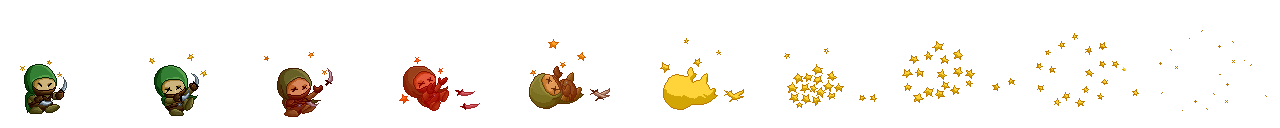
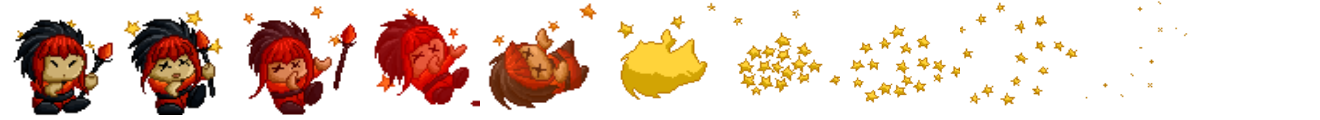
se hace re build de char, mob, y coin. Se eliminan espacios vacios de los spritesheets

diff --git a/TP4/entregafinal/pages/play_game2.js b/TP4/entregafinal/pages/play_game2.js
@@ -2,46 +2,11 @@ import { Navbar_inGame } from "../components/NavBar_inGame";
 import Footer from "../components/Footer";
 import React, { useState, useEffect } from 'react';
 import Background from "../components/ForestRunner/Background";
-import { Player } from "../components/ForestRunner/player";
 
 export default function Play_Game2(){
 
     const [gameOver, setGameOver] = useState(false); 
-    
-    /* const InputListener = ()=>{        
-        useEffect(() => {
-            window.addEventListener("keydown", e => {     
-                if (e.key === " ")  
-                    return () => {
-                        char.classList.remove("char_run");
-                        char.classList.remove("char_death");
-                        char.classList.add("char_jump");
-                        setTimeout(jump,1300);
-                    }
-                });
-            
-            window.addEventListener("keydown", e => {     
-                if (e.key === "d")             
-                    return () => {  //EN CASO DE MORIR, ahora prueb ocon la tecla D
-                        char.classList.add("char_death");
-                        gameOver = true;            
-                        this.setTimeout(detener_fondo, 1200);
-                        this.setTimeout(mostrar_cartel_loose,1200);            
-                    }
-                });
-            window.addEventListener("keydown", e => {     
-                if (e.key === "w")  
-                    return () => {  //EN CASO DE GANAR, ahora prueb ocon la tecla W
-                        this.setTimeout(mostrar_cartel_win,1200);            
-                    }           
-            });
-        });
-    }; */
-    
-    
-   // const char = new Player(true, 1, 100, 400, 0, false);
-    
-        
+
     function jump(){
         char.classList.remove("char_jump"); 
         char.classList.add("char_run");        
@@ -56,12 +21,18 @@ export default function Play_Game2(){
     }
 
     function detener_fondo(){
-        layer1.style.animation="pause";
-        layer2.style.animation="pause";
-        layer3.style.animation="pause";
-        layer4.style.animation="pause";
-        layer5.style.animation="pause";
-        layer6.style.animation="pause";
+
+        /*   backgroundAnimation.forEach(animation =>{
+            const running = animation.style.animationPlayState || 'running';
+            animation.style.animationPlayState = running === 'running' ? 'paused' : 'running';
+        }) */
+
+        layer1.style.animationPlayState='paused';
+        layer2.style.animationPlayState='paused';
+        layer3.style.animationPlayState='paused';
+        layer4.style.animationPlayState='paused';
+        layer5.style.animationPlayState='paused';
+        layer6.style.animationPlayState='paused';
     }
 
     useEffect(() => {
@@ -140,48 +111,62 @@ return(
     }
 
     .char {
-        width: 128px;
-        height: 128px;
-        z-index: 2;
-        transform : scale(2);
+        width: 120px;
+        height: 120px;
+        z-index: 2;        
         position: absolute;
         left: 100px;
-        top: 400px;
+        top: 435px;
     }
 
     .char_run{
-        background: url('/ForestRunner/char/char_mage_run.png');
+        background: url('/ForestRunner/char/char_run.png');
         animation: char_run 0.7s steps(8) infinite;
-        MozAnimation: char_run 0.7s steps(8) infinite;
-        WebkitAnimation: char_run 0.7s  steps(8) infinite;
+        MozAnimation: char_run 1s steps(8) infinite;
+        WebkitAnimation: char_run 1s  steps(8) infinite;
+    }
+
+    @keyframes char_run{
+        0%{background-position: 0px;}
+        100%{background-position: -960px;}   
     }
     
-    .char_death{
-       
-        background: url('/ForestRunner/char/char_mage_death.png');
+    .char_death{       
+        background: url('/ForestRunner/char/char_death.png');
         animation: char_death 1.3s steps(11) 1 normal forwards;    
         MozAnimation: char_death 1.3s steps(11) 1 forwards;
         WebkitAnimation: char_death 1.3s steps(11) 1 forwards;
     }
     
+    @keyframes char_death{
+        0%{background-position: 0px; opacity: 1;}
+        99%{opacity: .8;}
+        100%{background-position: -1320px;opacity: 0;}   
+    }
+
     .char_jump{ 
-        background: url('/ForestRunner/char/char_mage_jump.png');
+        background: url('/ForestRunner/char/char_jump.png');
         animation: char_jump 1.3s steps(12) 1;
         MozAnimation: char_jump 1.3s steps(12) 1;
         WebkitAnimation: char_jump 1.3s steps(12) 1;  
     }
+
+    @keyframes char_jump{
+        0%{background-position: 0px; top: 390px;}
+        50%{top: 150px;}
+        100%{background-position: -1440px; top: 390px;}       
+    }
     
     .mob1_run{
-        width: 128px;
-        height: 128px;
-        background: url('/ForestRunner/char/mob1_run.png');
-        animation: mob1_run 2s steps(12) infinite;
-        MozAnimation: mob1_run 2s steps(12) infinite;
-        WebkitAnimation: mob1_run 2s steps(12) infinite;
-        z-index: 2;
-        transform : scale(1.5);
+        width: 120px;
+        height: 120px;
+        background: url('/ForestRunner/char/mob.png');
+        animation: mob1_run 1s steps(5) infinite;
+        MozAnimation: mob1_run 1s steps(5) infinite;
+        WebkitAnimation: mob1_run 1s steps(5) infinite;
+        z-index: 2;        
         position: absolute;
-        top: 440px;    
+        top: 430px;    
     }   
     
     #mob1_despl_X{
@@ -189,9 +174,9 @@ return(
     }
     
     .coin{
-        width: 70px;
-        height: 70px;
-        background: url('/ForestRunner/coins/coin_70_70.png');
+        width: 50px;
+        height: 50px;
+        background: url('/ForestRunner/coins/coin_50.png');
         animation: coin2 0.8s steps(6) infinite;  
         MozAnimation: coin2 0.8s steps(6) infinite;
         WebkitAnimation: coin2 0.8s steps(6) infinite;
@@ -278,30 +263,9 @@ return(
         top: 20px;
     }
 
-    /* Animacion Correr del personaje */
-
-    @keyframes char_run{
-        0%{background-position: 0px;}
-        100%{background-position: -1024px;}   
-    }
-
-    /* Animacion Morir del personaje */
-    @keyframes char_death{
-        0%{background-position: 0px; opacity: 1;}
-        99%{opacity: .8;}
-        100%{background-position: -1408px;opacity: 0;}   
-    }
-
-    /* Animacion Saltar del personaje */
-    @keyframes char_jump{
-        0%{background-position: 0px; margin-top: 390px;}
-        50%{margin-top: 150px;}
-        100%{background-position: -1536px; margin-top: 390px;}       
-    }
-
     @keyframes mob1_run{
         0%{background-position: 0px;}
-        100%{background-position: -1538px;}
+        100%{background-position: -600px;}
     }
 
     @keyframes mob1_desplace{
@@ -311,7 +275,7 @@ return(
     
     @keyframes coin2{
         0%{background-position: 0px;}
-        100%{background-position: -420px;}
+        100%{background-position: -300px;}
     }
 
     @keyframes coin1{
